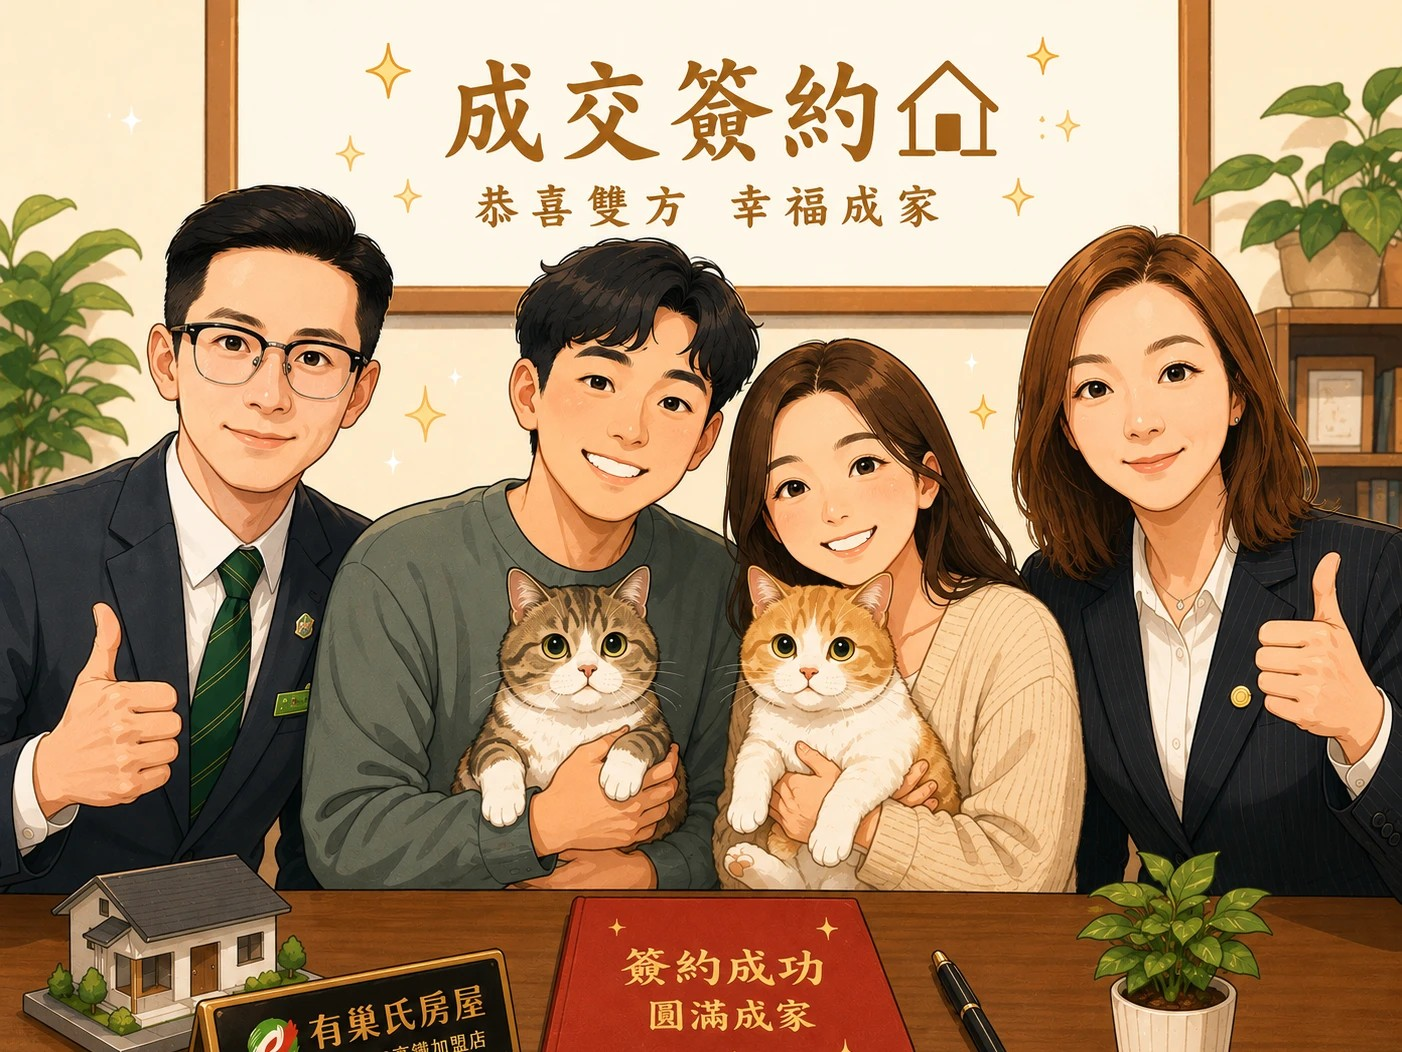
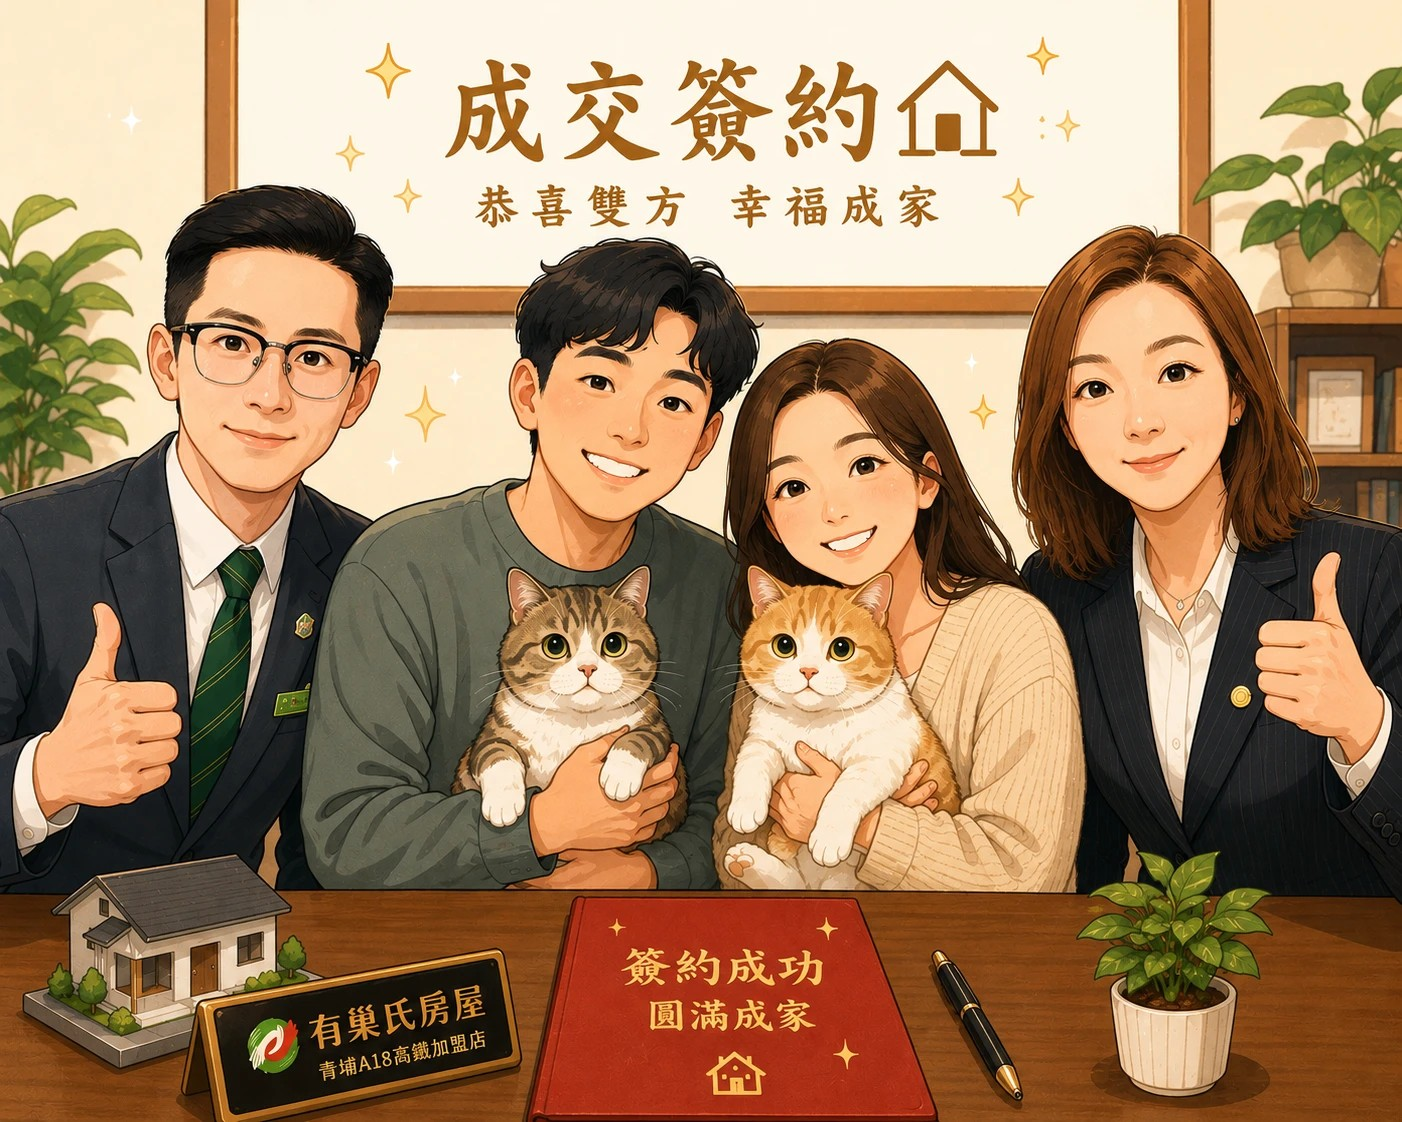
修正真實成交故事封面圖被裁切的問題，改用原始比例完整顯示

diff --git a/index.html b/index.html
@@ -277,7 +277,7 @@
     </div>
 
     <div class="case-story">
-      <img class="cover" src="assets/img/case-story-1.jpg" alt="示意圖：房仲與客戶一家人開心合照（Q版插畫，非真實客戶照片）" width="1024" height="768" loading="lazy">
+      <img class="cover" src="assets/img/case-story-1.jpg" alt="示意圖：房仲與客戶一家人開心合照（Q版插畫，非真實客戶照片）" width="1024" height="1156" loading="lazy">
       <span class="kicker">使命必達．真實成交故事</span>
       <h3>陪客戶等了兩年，才圓一個買房夢</h3>
       <p>陳小姐想搬來青埔定居，但資金卡在台北的一戶預售屋上，必須先賣掉才湊得出頭期款。沒想到這一賣，就是兩年。</p>
@@ -287,7 +287,7 @@
     </div>
 
     <div class="case-story">
-      <img class="cover" src="assets/img/case-story-2.jpg" alt="示意圖：成交簽約慶祝合照（Q版插畫，非真實客戶照片）" width="1402" height="1052" loading="lazy">
+      <img class="cover" src="assets/img/case-story-2.jpg" alt="示意圖：成交簽約慶祝合照（Q版插畫，非真實客戶照片）" width="1402" height="1122" loading="lazy">
       <span class="kicker">自媒體口碑．真實客戶回饋</span>
       <h3>不只一組客戶，是看了我的影片才找上門</h3>
       <p>青埔一戶電梯大樓成交後，客戶告訴我：「我看了你的影片，覺得你人很靠譜。」從看屋前的洽談、找物件，到帶看、屋況說明，整個過程她都願意放心交給我。</p>

diff --git a/assets/css/style.css b/assets/css/style.css
@@ -363,7 +363,7 @@
     border-radius:18px;padding:28px 26px;box-shadow:var(--shadow);overflow:hidden;
   }
   .case-story .cover{
-    display:block;width:calc(100% + 52px);aspect-ratio:4/3;object-fit:cover;
+    display:block;width:calc(100% + 52px);height:auto;
     margin:-28px -26px 20px;border-radius:18px 18px 0 0;
   }
   .case-story .kicker{
